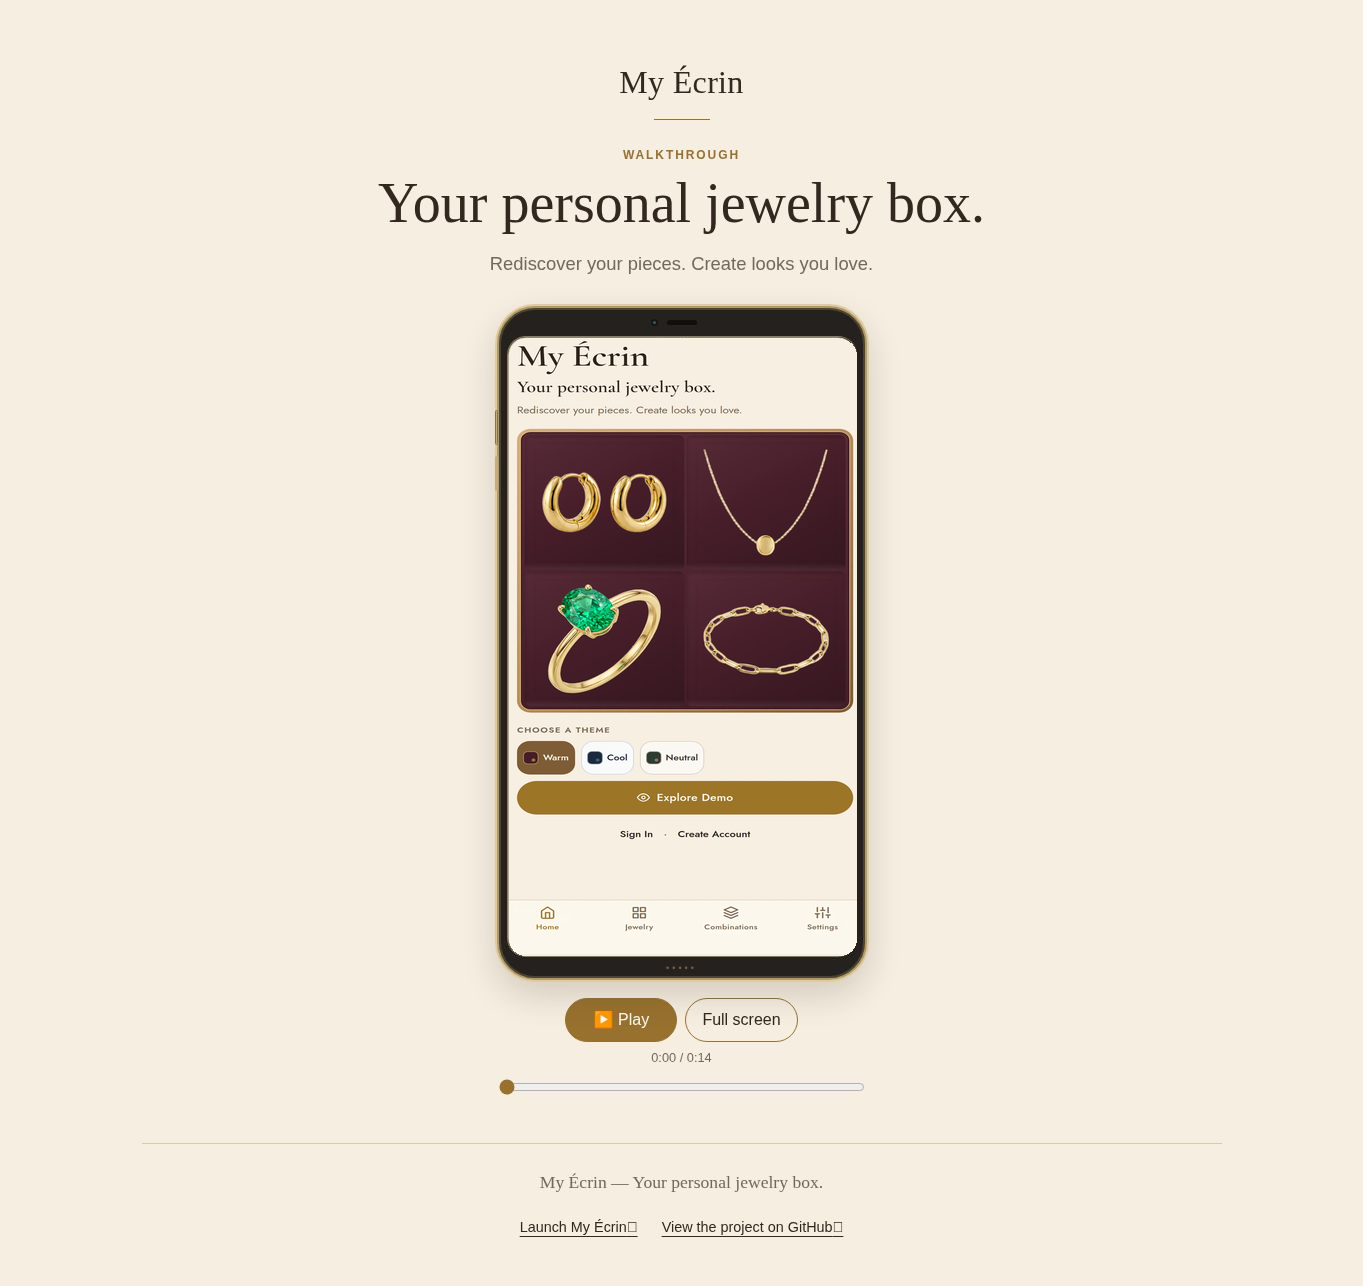
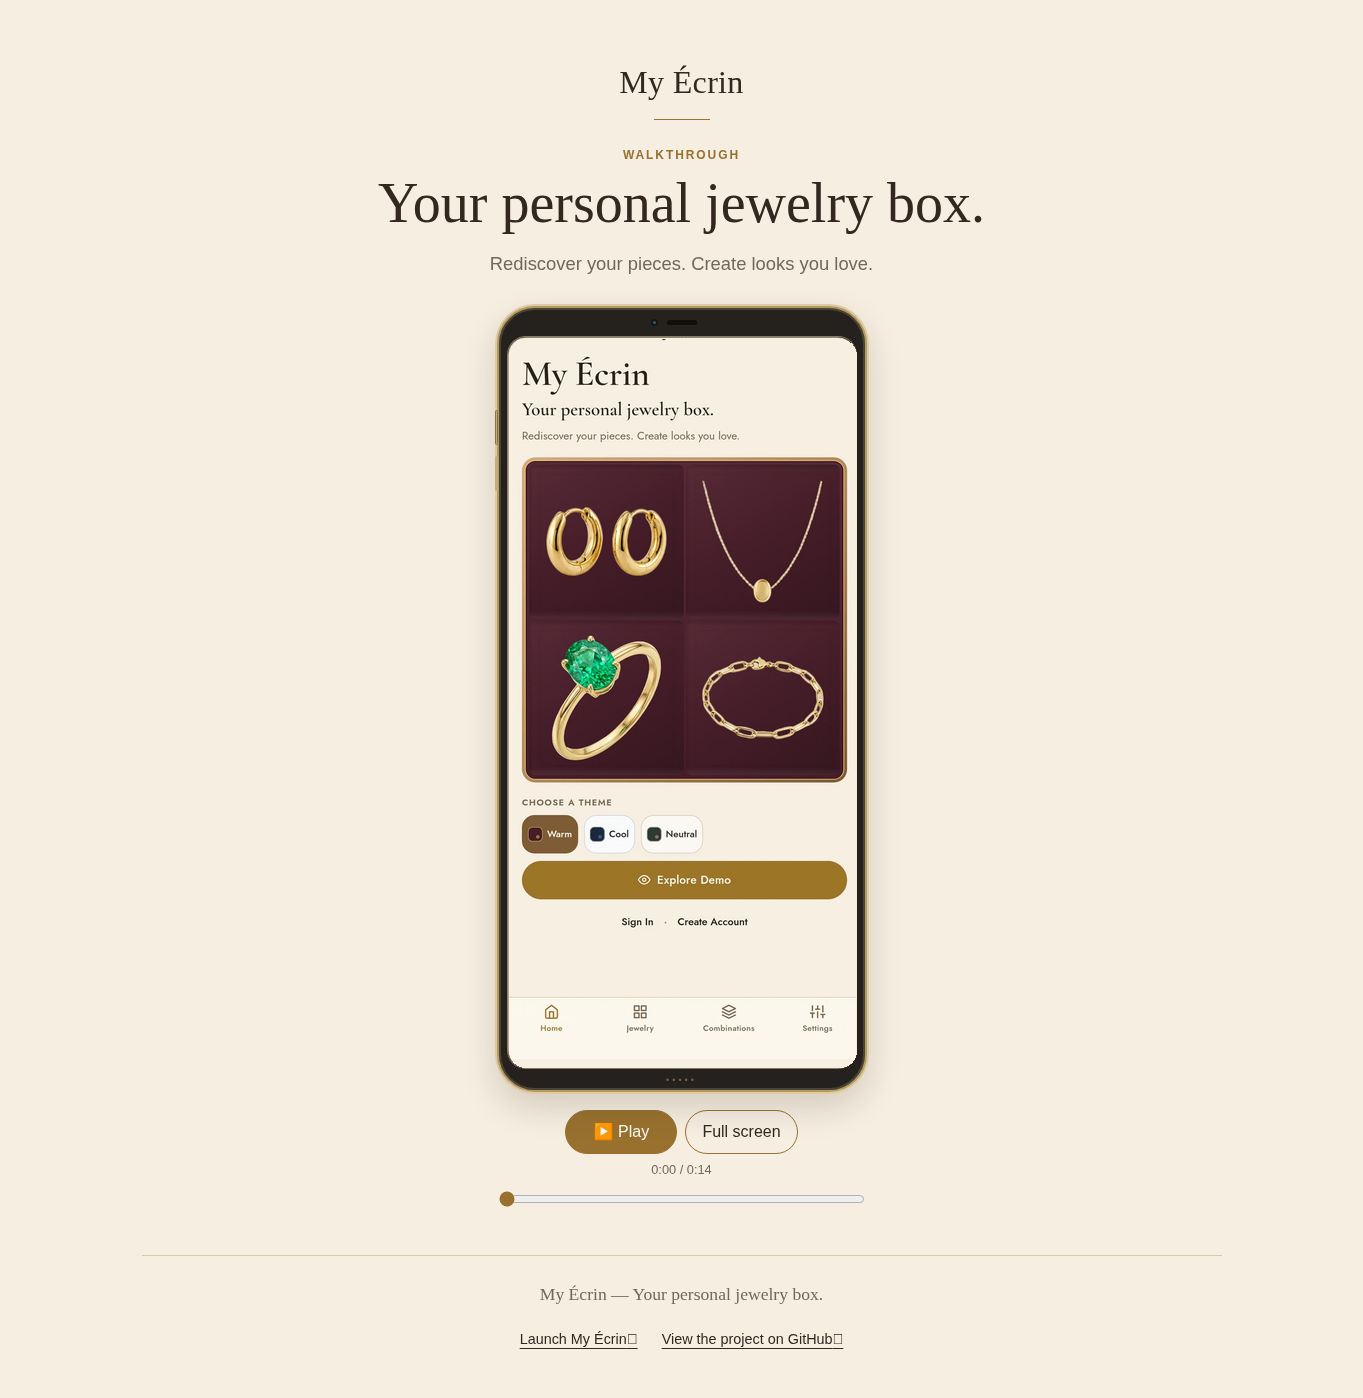
Match poster to player crop and correct preview image proportions

diff --git a/index.html b/index.html
@@ -251,6 +251,15 @@
         border-radius: 0;
         outline: none;
       }
+      .video-poster {
+        position: absolute;
+        inset: 0;
+        width: 100%;
+        height: 100%;
+        object-fit: contain;
+        pointer-events: none;
+      }
+      .video-poster[hidden] { display: none; }
       .phone-screen:fullscreen {
         width: auto;
         height: 100%;
@@ -299,6 +308,7 @@
                 <a href="myecrin-promo/myecrin-walkthrough-tight-15s.mp4">Open the MP4 file</a>.
               </p>
             </video>
+            <img class="video-poster" src="myecrin-promo/video-poster-cropped.jpg" width="816" height="1714" alt="" aria-hidden="true">
             </div>
           </div>
           <div class="player-controls" hidden role="group" aria-label="Video playback controls">
@@ -325,7 +335,9 @@
       const progress = document.getElementById('video-progress');
       const time = document.getElementById('playback-time');
       const format = value => Math.floor(value / 60) + ':' + String(Math.floor(value % 60)).padStart(2, '0');
+      const poster = document.querySelector('.video-poster');
       const sync = () => {
+        poster.hidden = !video.paused || video.currentTime > 0;
         const duration = Number.isFinite(video.duration) ? video.duration : 0;
         progress.value = duration ? video.currentTime / duration * 100 : 0;
         progress.setAttribute('aria-valuetext', format(video.currentTime));
